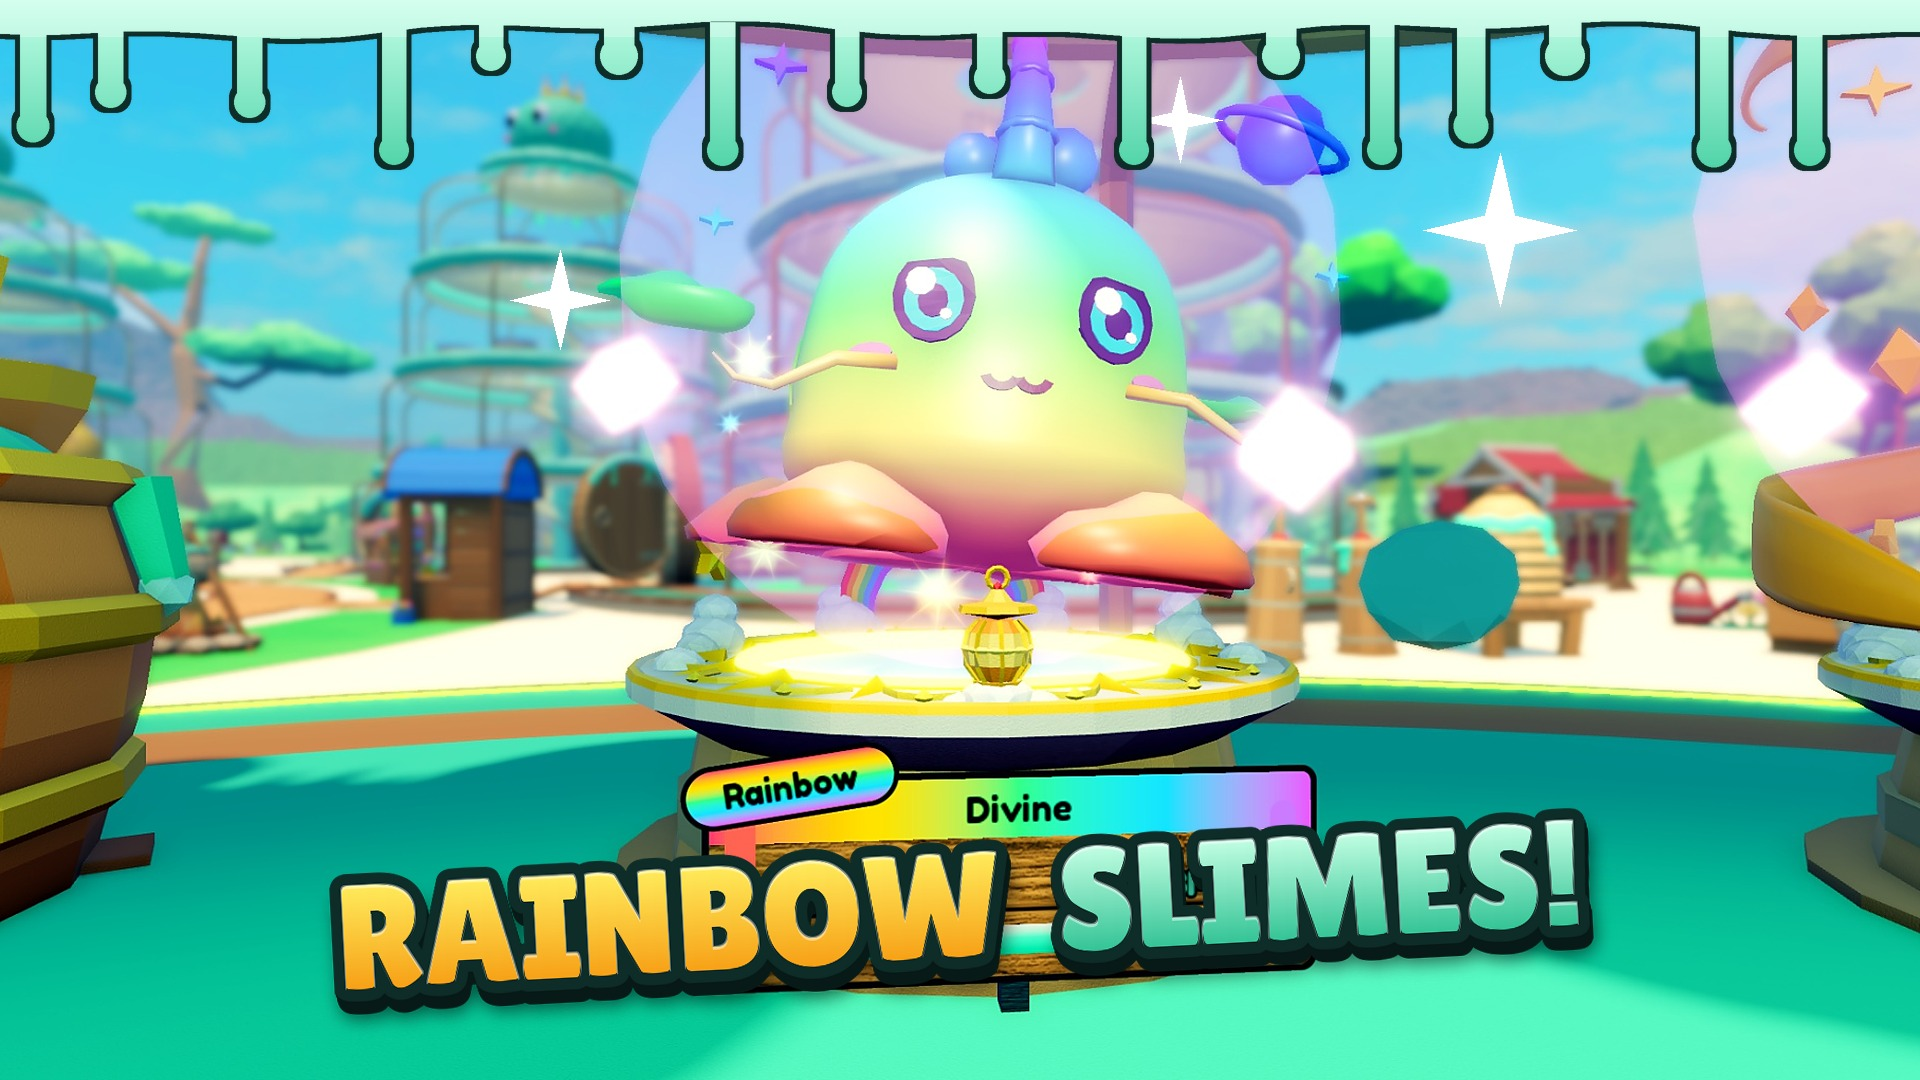
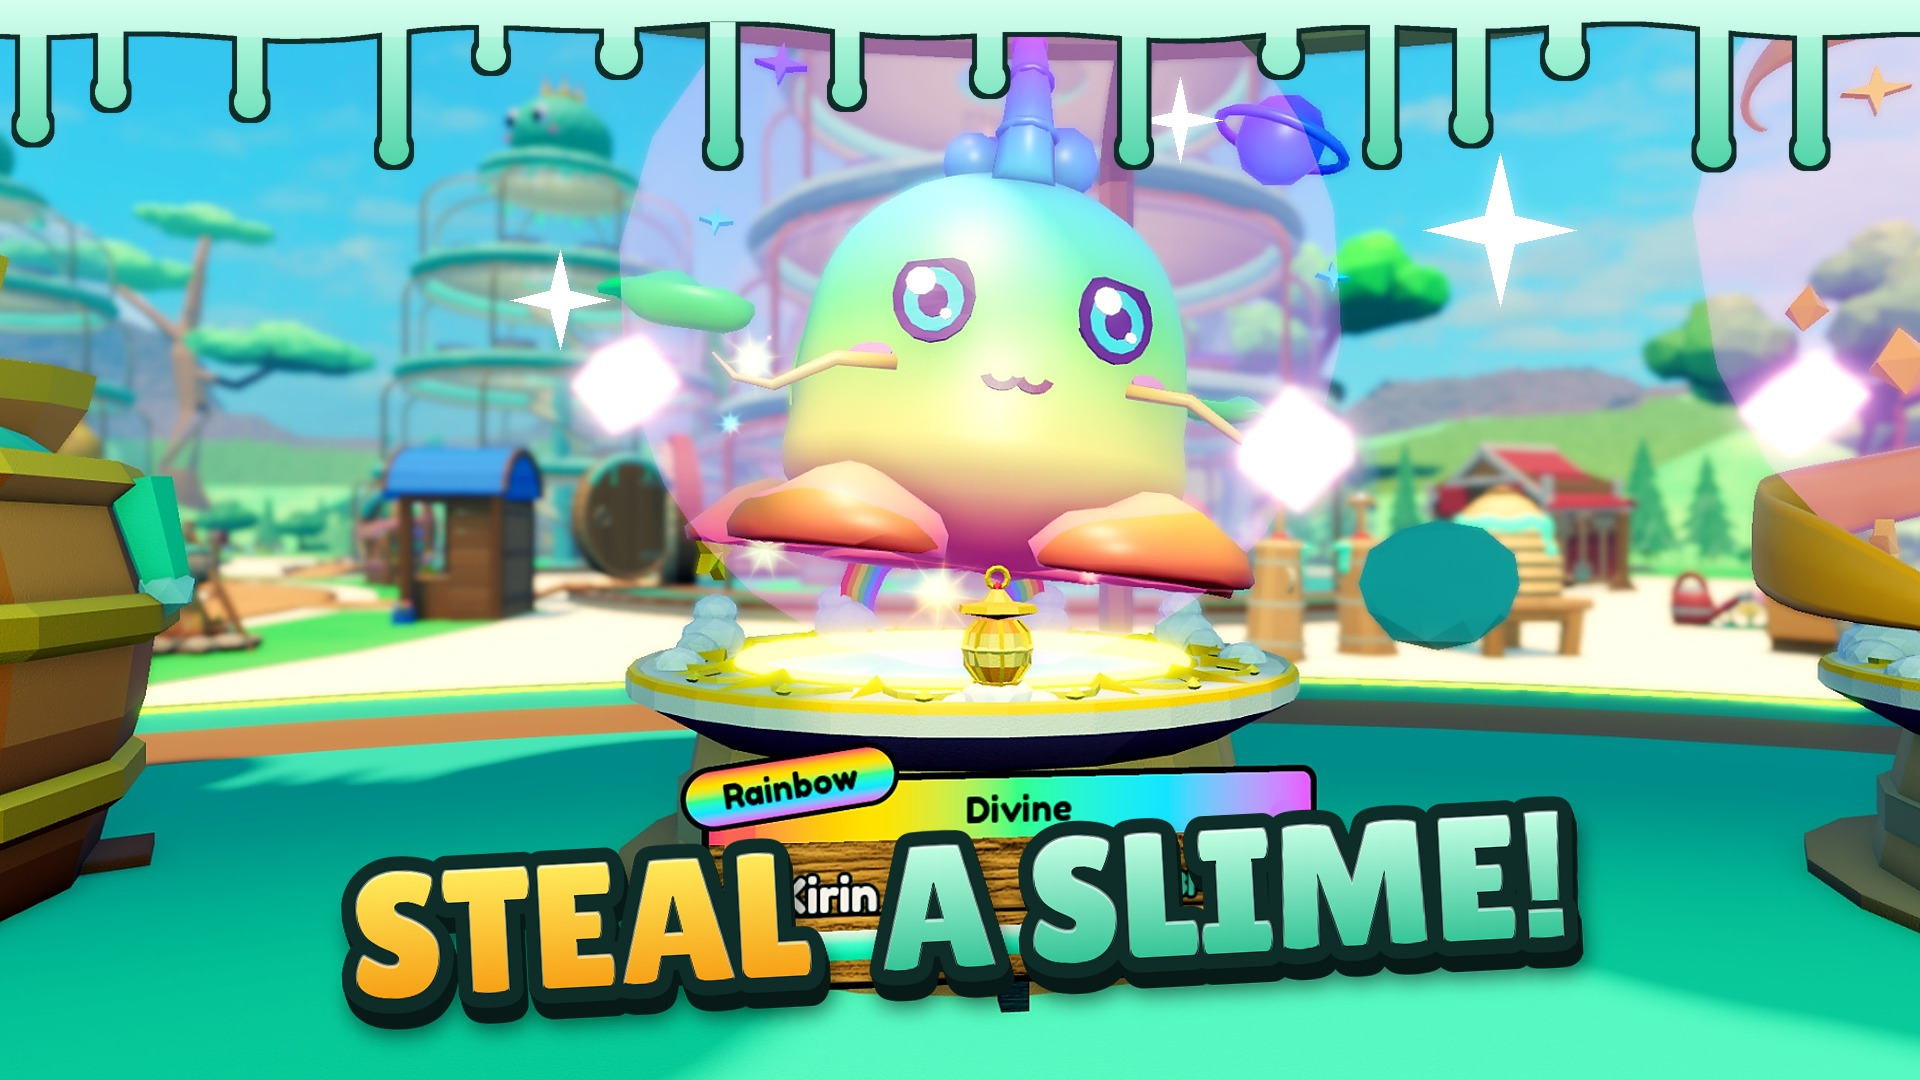
docs(steal-a-slime): every ad says STEAL A SLIME, different scene each
Merijn: all ads like the main thumbnail with different backgrounds and slimes. Eight scenes (thief, Divine, Kirin at night, Kirin by day, boss, obby, wild slime lane, Mystery Egg), squares of three.

Changed region(s): [[0.1562, 0.7333, 0.8438, 0.9778]]

diff --git a/games/steal-a-slime/docs/ad-thumbnails/review.html b/games/steal-a-slime/docs/ad-thumbnails/review.html
@@ -27,26 +27,27 @@
 <body>
 <main>
   <h1>Ad images: pick the ones you want</h1>
-  <p class="lead">Seven new 1920×1080 ads for the Ads Manager test, same style as your thumbnails. Every picture is a real moment from the game (hidden Studio, test save). Pick any number; nothing is uploaded.</p>
+  <p class="lead">Eight 1920×1080 ads for the Ads Manager test, all with the main "STEAL A SLIME!" caption like your thumbnail, each with a different scene and hero slime. Every picture is a real moment from the game (hidden Studio, test save). Pick any number; nothing is uploaded.</p>
   <div class="grid">
-    <figure class="card"><img src="ad-boss.jpg" alt="The slime boss on the lane, the player jumping at it, caption BEAT THE BOSS!"><figcaption><b>BEAT THE BOSS!</b> The slime boss on the lane, the player jumping at it · square below</figcaption></figure>
-    <figure class="card"><img src="ad-thief.jpg" alt="A thief running off with a stolen Rainbow Celestial, the owner chasing, caption CATCH THE THIEF!"><figcaption><b>CATCH THE THIEF!</b> A thief running off with a stolen Rainbow Celestial, the owner chasing · square below</figcaption></figure>
-    <figure class="card"><img src="ad-divine.jpg" alt="The Divine Goo Oracle on its pad, the player cheering, caption FIND A DIVINE!"><figcaption><b>FIND A DIVINE!</b> The Divine Goo Oracle on its pad, the player cheering · square below</figcaption></figure>
-    <figure class="card"><img src="ad-rainbow.jpg" alt="The Rainbow Divine Kirin (+$9.73M/s) on its pad, caption RAINBOW SLIMES!"><figcaption><b>RAINBOW SLIMES!</b> The Rainbow Divine Kirin (+$9.73M/s) on its pad</figcaption></figure>
-    <figure class="card"><img src="ad-rich.jpg" alt="A $16.4M cash pad next to a Rainbow Celestial earning +$3.52M/s, caption GET RICH!"><figcaption><b>GET RICH!</b> A $16.4M cash pad next to a Rainbow Celestial earning +$3.52M/s</figcaption></figure>
-    <figure class="card"><img src="ad-egg.jpg" alt="A Mystery Egg ready to hatch on a pad, caption HATCH EGGS!"><figcaption><b>HATCH EGGS!</b> A Mystery Egg ready to hatch on a pad</figcaption></figure>
-    <figure class="card"><img src="ad-claw.jpg" alt="The Slime Claw exclusive shop (the weakest one), caption SLIME CLAW!"><figcaption><b>SLIME CLAW!</b> The Slime Claw exclusive shop (the weakest one)</figcaption></figure>
+    <figure class="card"><img src="ad-thief.jpg" alt="STEAL A SLIME ad: A thief running off with a stolen Rainbow Celestial, the owner chasing"><figcaption>A thief running off with a stolen Rainbow Celestial, the owner chasing · square below</figcaption></figure>
+    <figure class="card"><img src="ad-divine.jpg" alt="STEAL A SLIME ad: The Divine Goo Oracle on its pad, the player reaching for it"><figcaption>The Divine Goo Oracle on its pad, the player reaching for it · square below</figcaption></figure>
+    <figure class="card"><img src="ad-night.jpg" alt="STEAL A SLIME ad: The Rainbow Divine Kirin glowing in a jar base at night (Starfall weather)"><figcaption>The Rainbow Divine Kirin glowing in a jar base at night (Starfall weather) · square below</figcaption></figure>
+    <figure class="card"><img src="ad-rainbow.jpg" alt="STEAL A SLIME ad: The same Rainbow Divine Kirin by day (+$9.73M/s)"><figcaption>The same Rainbow Divine Kirin by day (+$9.73M/s)</figcaption></figure>
+    <figure class="card"><img src="ad-boss.jpg" alt="STEAL A SLIME ad: The slime boss on the lane, the player jumping at it"><figcaption>The slime boss on the lane, the player jumping at it</figcaption></figure>
+    <figure class="card"><img src="ad-obby.jpg" alt="STEAL A SLIME ad: The Goo Gauntlet sky course, the player over the goo pit"><figcaption>The Goo Gauntlet sky course, the player over the goo pit</figcaption></figure>
+    <figure class="card"><img src="ad-crowd.jpg" alt="STEAL A SLIME ad: A busy lane of cute wild slimes, the player catching one"><figcaption>A busy lane of cute wild slimes, the player catching one</figcaption></figure>
+    <figure class="card"><img src="ad-egg.jpg" alt="STEAL A SLIME ad: A Mystery Egg ready to hatch on a pad"><figcaption>A Mystery Egg ready to hatch on a pad</figcaption></figure>
   </div>
 
   <h2>Square (1:1) crops of three</h2>
   <div class="grid3">
-    <figure><img src="ad-boss-square.jpg" alt="Square crop: BEAT THE BOSS!"><figcaption>BEAT THE BOSS!</figcaption></figure>
-    <figure><img src="ad-thief-square.jpg" alt="Square crop: CATCH THE THIEF!"><figcaption>CATCH THE THIEF!</figcaption></figure>
-    <figure><img src="ad-divine-square.jpg" alt="Square crop: FIND A DIVINE!"><figcaption>FIND A DIVINE!</figcaption></figure>
+    <figure><img src="ad-thief-square.jpg" alt="Square crop: A thief running off with a stolen Rainbow Celestial, the owner chasing"><figcaption>A thief running off with a stolen Rainbow Celestial, the owner chasing</figcaption></figure>
+    <figure><img src="ad-divine-square.jpg" alt="Square crop: The Divine Goo Oracle on its pad, the player reaching for it"><figcaption>The Divine Goo Oracle on its pad, the player reaching for it</figcaption></figure>
+    <figure><img src="ad-night-square.jpg" alt="Square crop: The Rainbow Divine Kirin glowing in a jar base at night (Starfall weather)"><figcaption>The Rainbow Divine Kirin glowing in a jar base at night (Starfall weather)</figcaption></figure>
   </div>
 
   <h2>At phone-ad size (about 300 px wide)</h2>
-  <img src="phone-size.jpg" alt="All seven ads shrunk to about 300 pixels wide to check the captions still read">
+  <img src="phone-size.jpg" alt="All eight ads shrunk to about 300 pixels wide to check the captions still read">
 
   <h2>Not made, and why</h2>
   <div class="note"><ul>
@@ -54,11 +55,13 @@
     <li><b>SLIME RAIN</b>: in the game it shows as small sparkles; slimes don't fall from the sky, so the picture would mislead.</li>
     <li><b>Starfall at night</b>: the falling stars are tiny specks in a very dark scene; not exciting at ad size.</li>
     <li><b>Egg hatching</b>: the burst played before I could freeze it, so the egg ad shows the ready-to-hatch moment.</li>
+    <li><b>Snow weather</b> and a <b>merge-vat hybrid</b> close-up: not shot this round.</li>
   </ul></div>
 
   <h2>Good to know</h2>
   <div class="note"><ul>
-    <li>The chasing owner in CATCH THE THIEF is a copy of the test avatar in a green shirt (a hidden Studio can't add a second real player); the steal itself is real.</li>
+    <li>The day Rainbow ad and the night ad show the same Kirin slime.</li>
+    <li>The chasing owner in the thief ad is a copy of the test avatar in a green shirt (a hidden Studio can't add a second real player); the steal itself is real.</li>
     <li>The player is your own avatar.</li>
     <li>Not checked in Ads Manager's own preview or crop tool.</li>
   </ul></div>

diff --git a/games/steal-a-slime/docs/ad-thumbnails/make_ads.py b/games/steal-a-slime/docs/ad-thumbnails/make_ads.py
@@ -8,18 +8,22 @@ import render as R
 from PIL import Image
 
 FONT = os.path.join(HERE, "..", "store-video", "fonts", "LilitaOne-Regular.ttf")
-Y, M, P = R.YELLOW, R.MINT, R.PINK
-# name: (caption lines, sparkles (x, y, size) in the 1920x1080 frame, square crop centre x[, caption centre y])
+Y, M = R.YELLOW, R.MINT
+# One caption on every ad, as on the game's main thumbnail (Merijn: "It should all be like Steal a Slime with
+# different backgrounds"); what changes is the scene and the hero slime.
+CAPTION = [[("STEAL", Y), ("A SLIME!", M)]]
+# name: (sparkles (x, y, size) in the 1920x1080 frame, square crop centre x, brightness lift)
 ADS = {
-    "boss": ([[("BEAT", P), ("THE BOSS!", M)]], [(860, 220, 40), (1320, 150, 26), (560, 320, 22)], 1020),
-    "thief": ([[("CATCH", P), ("THE THIEF!", M)]], [(1200, 140, 38), (720, 250, 26), (1420, 360, 20)], 1000),
-    "divine": ([[("FIND A", Y), ("DIVINE!", M)]], [(860, 150, 38), (300, 420, 26), (1240, 300, 22)], 780),
-    "rainbow": ([[("RAINBOW", Y), ("SLIMES!", M)]], [(1500, 230, 40), (560, 300, 26), (1180, 120, 22)], 1000),
-    "rich": ([[("GET", Y), ("RICH!", M)]], [(560, 420, 40), (1300, 470, 28), (700, 640, 22)], 860, 255),
-    "egg": ([[("HATCH", Y), ("EGGS!", M)]], [(1080, 330, 38), (700, 230, 24), (1260, 160, 20)], 880),
-    "claw": ([[("SLIME", Y), ("CLAW!", M)]], [(1300, 200, 36), (620, 260, 24), (1100, 120, 20)], 960),
+    "thief": ([(1200, 140, 38), (720, 250, 26), (1420, 360, 20)], 1000, 1.0),
+    "divine": ([(860, 150, 38), (300, 420, 26), (1240, 300, 22)], 780, 1.0),
+    "rainbow": ([(1500, 230, 40), (560, 300, 26), (1180, 120, 22)], 1000, 1.0),
+    "boss": ([(860, 220, 40), (1320, 150, 26), (560, 320, 22)], 1020, 1.0),
+    "night": ([(1250, 180, 40), (420, 250, 26), (980, 110, 22)], 820, 1.25),
+    "obby": ([(1700, 230, 38), (640, 330, 26), (1520, 130, 22)], 1000, 1.0),
+    "crowd": ([(700, 160, 36), (1420, 220, 26), (1060, 110, 20)], 960, 1.0),
+    "egg": ([(1080, 330, 38), (700, 230, 24), (1260, 160, 20)], 880, 1.0),
 }
-SQUARES = ["boss", "thief", "divine"]
+SQUARES = ["thief", "divine", "night"]
 
 def caption_layer(lines, width, frac, centre_y):
     probes = [R.caption_image(l, FONT, 150, 3) for l in lines]
@@ -33,8 +37,11 @@ def caption_layer(lines, width, frac, centre_y):
         y += step
     return out
 
-def base(still, stars):
+def base(still, stars, lift=1.0):
     frame = R.load_frame(still)
+    if lift != 1.0:
+        from PIL import ImageEnhance
+        frame = ImageEnhance.Brightness(frame.convert("RGB")).enhance(lift).convert("RGBA")
     for x, y, s in stars:
         st = R.sparkle(s)
         frame.alpha_composite(st, (x - st.width // 2, y - st.height // 2))
@@ -44,13 +51,12 @@ if __name__ == "__main__":
     src, dst = sys.argv[1], sys.argv[2]
     os.makedirs(dst, exist_ok=True)
     drips = R.drip_border()
-    for name, spec in ADS.items():
-        lines, stars, cx = spec[:3]
-        cy = spec[3] if len(spec) > 3 else 905
-        frame = base(os.path.join(src, name + ".jpg"), stars)
+    for name, (stars, cx, lift) in ADS.items():
+        lines = CAPTION
+        frame = base(os.path.join(src, name + ".jpg"), stars, lift)
         wide = frame.copy()
         wide.alpha_composite(drips)
-        for cap, pos in caption_layer(lines, R.W, 0.72 if cy > 600 else 0.55, cy):
+        for cap, pos in caption_layer(lines, R.W, 0.72, 905):
             wide.alpha_composite(cap, pos)
         wide.convert("RGB").save(os.path.join(dst, f"ad-{name}.jpg"), quality=92)
         if name in SQUARES:

diff --git a/games/steal-a-slime/docs/ad-thumbnails/README.md b/games/steal-a-slime/docs/ad-thumbnails/README.md
@@ -1,30 +1,35 @@
 # Ad images (picks)
 
-Seven 1920×1080 ad images for the Roblox Ads Manager test, in the style of the game's thumbnails, plus 1:1 square
-crops of three. Open [review.html](review.html) to pick. **Not uploaded** (not to Roblox, not to Ads Manager).
+Eight 1920×1080 ad images for the Roblox Ads Manager test, plus 1:1 square crops of three. Every one carries the
+main "STEAL A SLIME!" caption, as on the game's thumbnail (Merijn: "It should all be like Steal a Slime with
+different backgrounds"); what changes is the scene and the hero slime. Open [review.html](review.html) to pick.
+**Not uploaded** (not to Roblox, not to Ads Manager).
 
-| File | Moment (all real game moments, memory store) | Caption |
-|---|---|---|
-| `ad-boss.jpg` (+ square) | The slime boss on the lane, the player jumping at it | BEAT THE BOSS! |
-| `ad-thief.jpg` (+ square) | A player running off with a stolen Rainbow Celestial, the owner chasing | CATCH THE THIEF! |
-| `ad-divine.jpg` (+ square) | The Divine "Goo Oracle" on its pad, the player cheering | FIND A DIVINE! |
-| `ad-rainbow.jpg` | The Rainbow Divine "Kirin" (+$9.73M/s) on its pad | RAINBOW SLIMES! |
-| `ad-rich.jpg` | A $16.4M cash pad next to a Rainbow Celestial earning +$3.52M/s | GET RICH! |
-| `ad-egg.jpg` | A Speckled Mystery Egg ready to hatch on a pad | HATCH EGGS! |
-| `ad-claw.jpg` | The Slime Claw exclusive shop | SLIME CLAW! |
+| File | Scene (all real game moments, memory store) |
+|---|---|
+| `ad-thief.jpg` (+ square) | A thief running off with a stolen Rainbow Celestial, the owner chasing |
+| `ad-divine.jpg` (+ square) | The Divine "Goo Oracle" on its pad, the player reaching for it |
+| `ad-night.jpg` (+ square) | The Rainbow Divine "Kirin" glowing in a jar base at night, Starfall weather (brightness +25 %) |
+| `ad-rainbow.jpg` | The same Kirin by day (+$9.73M/s) |
+| `ad-boss.jpg` | The slime boss on the lane, the player jumping at it |
+| `ad-obby.jpg` | The Goo Gauntlet sky course over the goo pit |
+| `ad-crowd.jpg` | A busy lane of cute wild slimes (a frame of the store video's catch shot) |
+| `ad-egg.jpg` | A Mystery Egg ready to hatch on a pad |
 
 `make_ads.py <stills-dir> <out-dir>` draws them from the raw stills with the store video's caption, drip and
 sparkle code (`../store-video/render.py`, Lilita One). The stills came from the store-video capture build in a
 hidden, muted Studio (`../store-video/README.md`), graphics quality 21, game time frozen, HUD and labels hidden;
 `../store-video/capture/drv/adshot.py` poses the player (R15 animation at a fixed time) and the camera per shot.
 
-Not made (honest-ads rule):
+Not made (honest-ads rule, from the earlier per-feature caption plan):
 - **REBIRTH = x2**: not true. Each rebirth tier adds a few percent income (`Config.REBIRTH_TIERS`, +5–150 %), not x2.
 - **SLIME RAIN**: in the game a Slime Rain shows as small sparkles while slimes still come down the fountain slide one
   by one; there is no "slimes falling from the sky" moment to capture.
 - **Starfall at night**: the falling stars are a few small specks and the night scene is very dark; it didn't
   read as exciting at ad size.
 - **Egg hatch burst**: the hatch played before I could freeze it, so the egg ad shows the ready-to-hatch moment.
+
+Not shot this round: snow weather, a merge-vat hybrid close-up. The day and night Kirin ads share one hero slime.
 
 The chasing owner in `ad-thief.jpg` is a client-side copy of the test avatar in a green shirt (a hidden Studio
 can't add a second real player); the steal itself is real (`Carry.grab`). The player is Merijn's own avatar.
